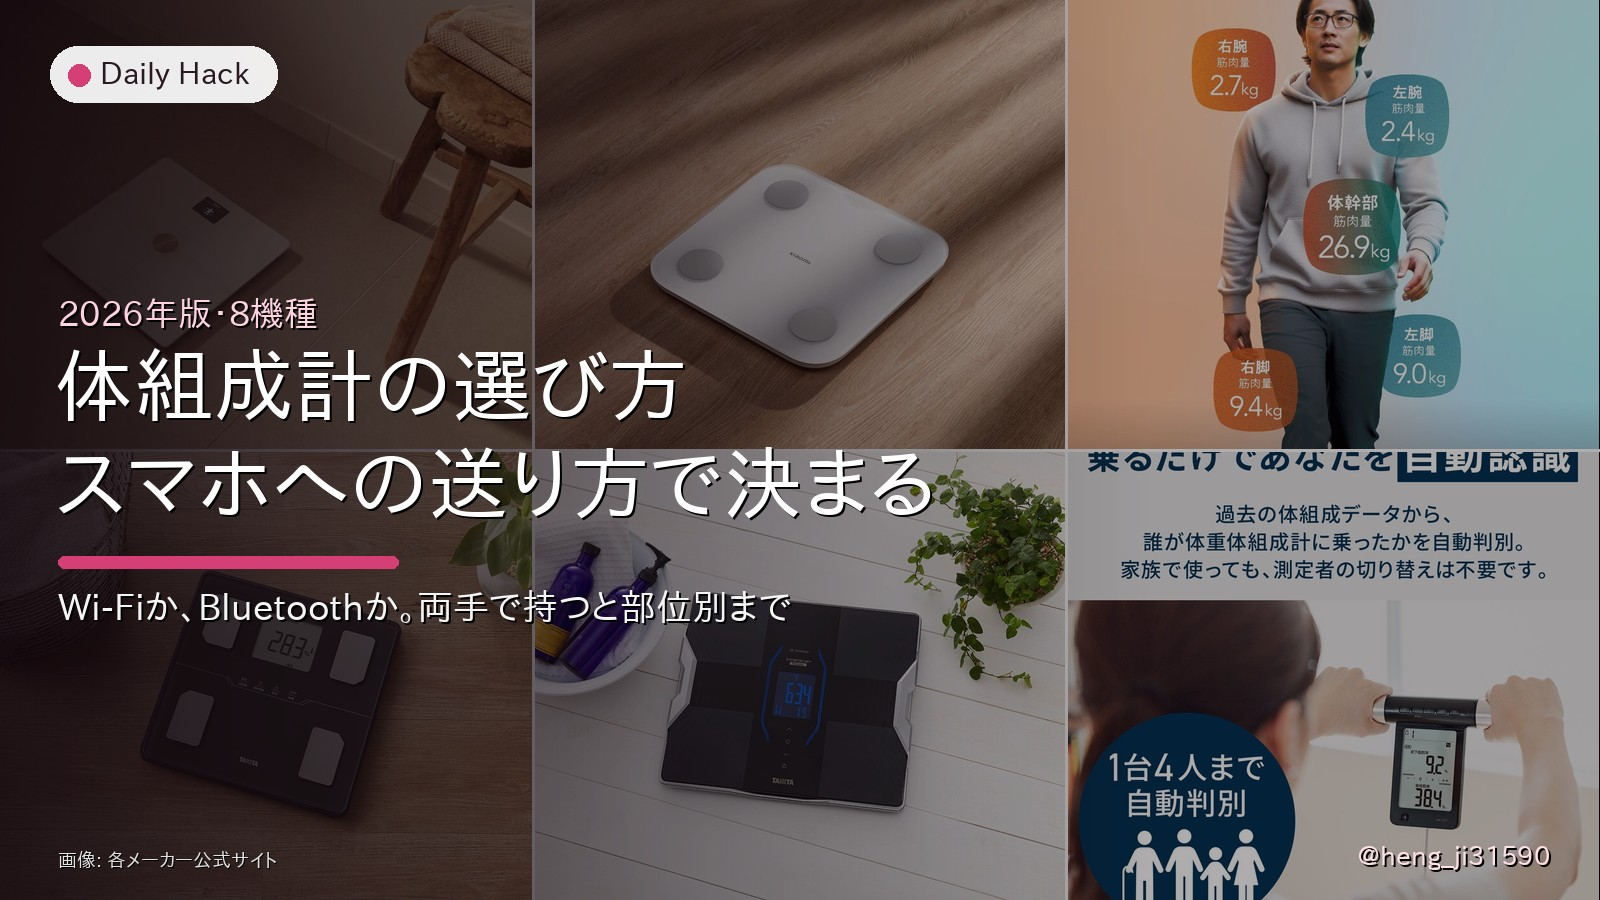
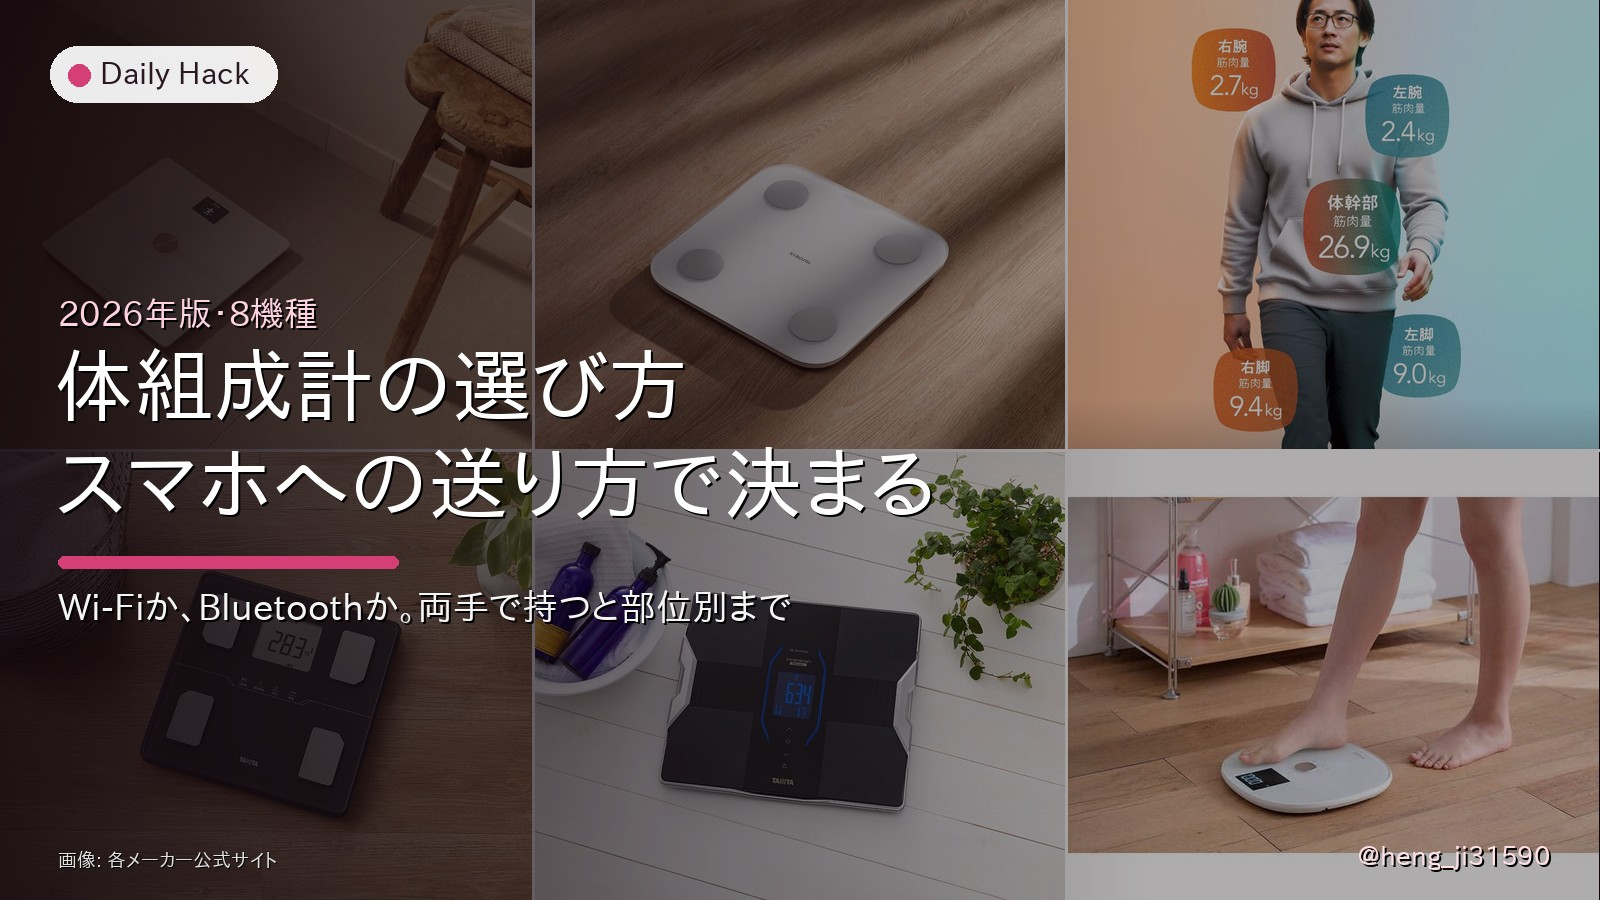
記事: 体組成計の記事に Amazon の ASIN 3 件・エレコムの写真を足し、表紙のオムロンの図をエレコムの写真に替える（t1024・t1025）
Claude-Session: https://claude.ai/code/session_01RqPaqffepEWsiAkvhJEvmW

Changed region(s): [[0.6562, 0.4978, 1.0, 1.0]]

diff --git a/src/content/posts/body-composition-scale-comparison-2026.md b/src/content/posts/body-composition-scale-comparison-2026.md
@@ -483,6 +483,17 @@ references:
 
 <h3 class="brand-h" id="elecom-hcs-wfs03"><img class="brand-logo" src="/images/body-composition-scale-comparison-2026/logos/elecom.png" alt="エレコムのロゴ" loading="lazy" /><span>エレコム エクリア HCS-WFS03｜Wi-Fi で送る・1万円台</span></h3>
 
+<div class="real-photos cols-2">
+  <figure class="rn-figure">
+    <img src="/images/body-composition-scale-comparison-2026/photos/elecom-hcs-wfs03.jpg" alt="白いエレコム エクリア HCS-WFS03 を斜め上から見たところ" loading="lazy" />
+    <figcaption>エクリア HCS-WFS03（ホワイト）。<cite>出典：<a href="https://www.elecom.co.jp/products/HCS-WFS03WH.html" target="_blank" rel="noopener">エレコム 公式</a></cite></figcaption>
+  </figure>
+  <figure class="rn-figure">
+    <img src="/images/body-composition-scale-comparison-2026/photos/elecom-hcs-wfs03-use.jpg" alt="フローリングに置いたエレコム HCS-WFS03 に素足で乗ろうとしているところ" loading="lazy" />
+    <figcaption>電源を入れずに、乗るだけで測る。<cite>出典：<a href="https://www.elecom.co.jp/products/HCS-WFS03WH.html" target="_blank" rel="noopener">エレコム 公式</a></cite></figcaption>
+  </figure>
+</div>
+
 <div class="cmp-table-wrap">
   <table class="cmp-table spec-table">
     <tbody>
